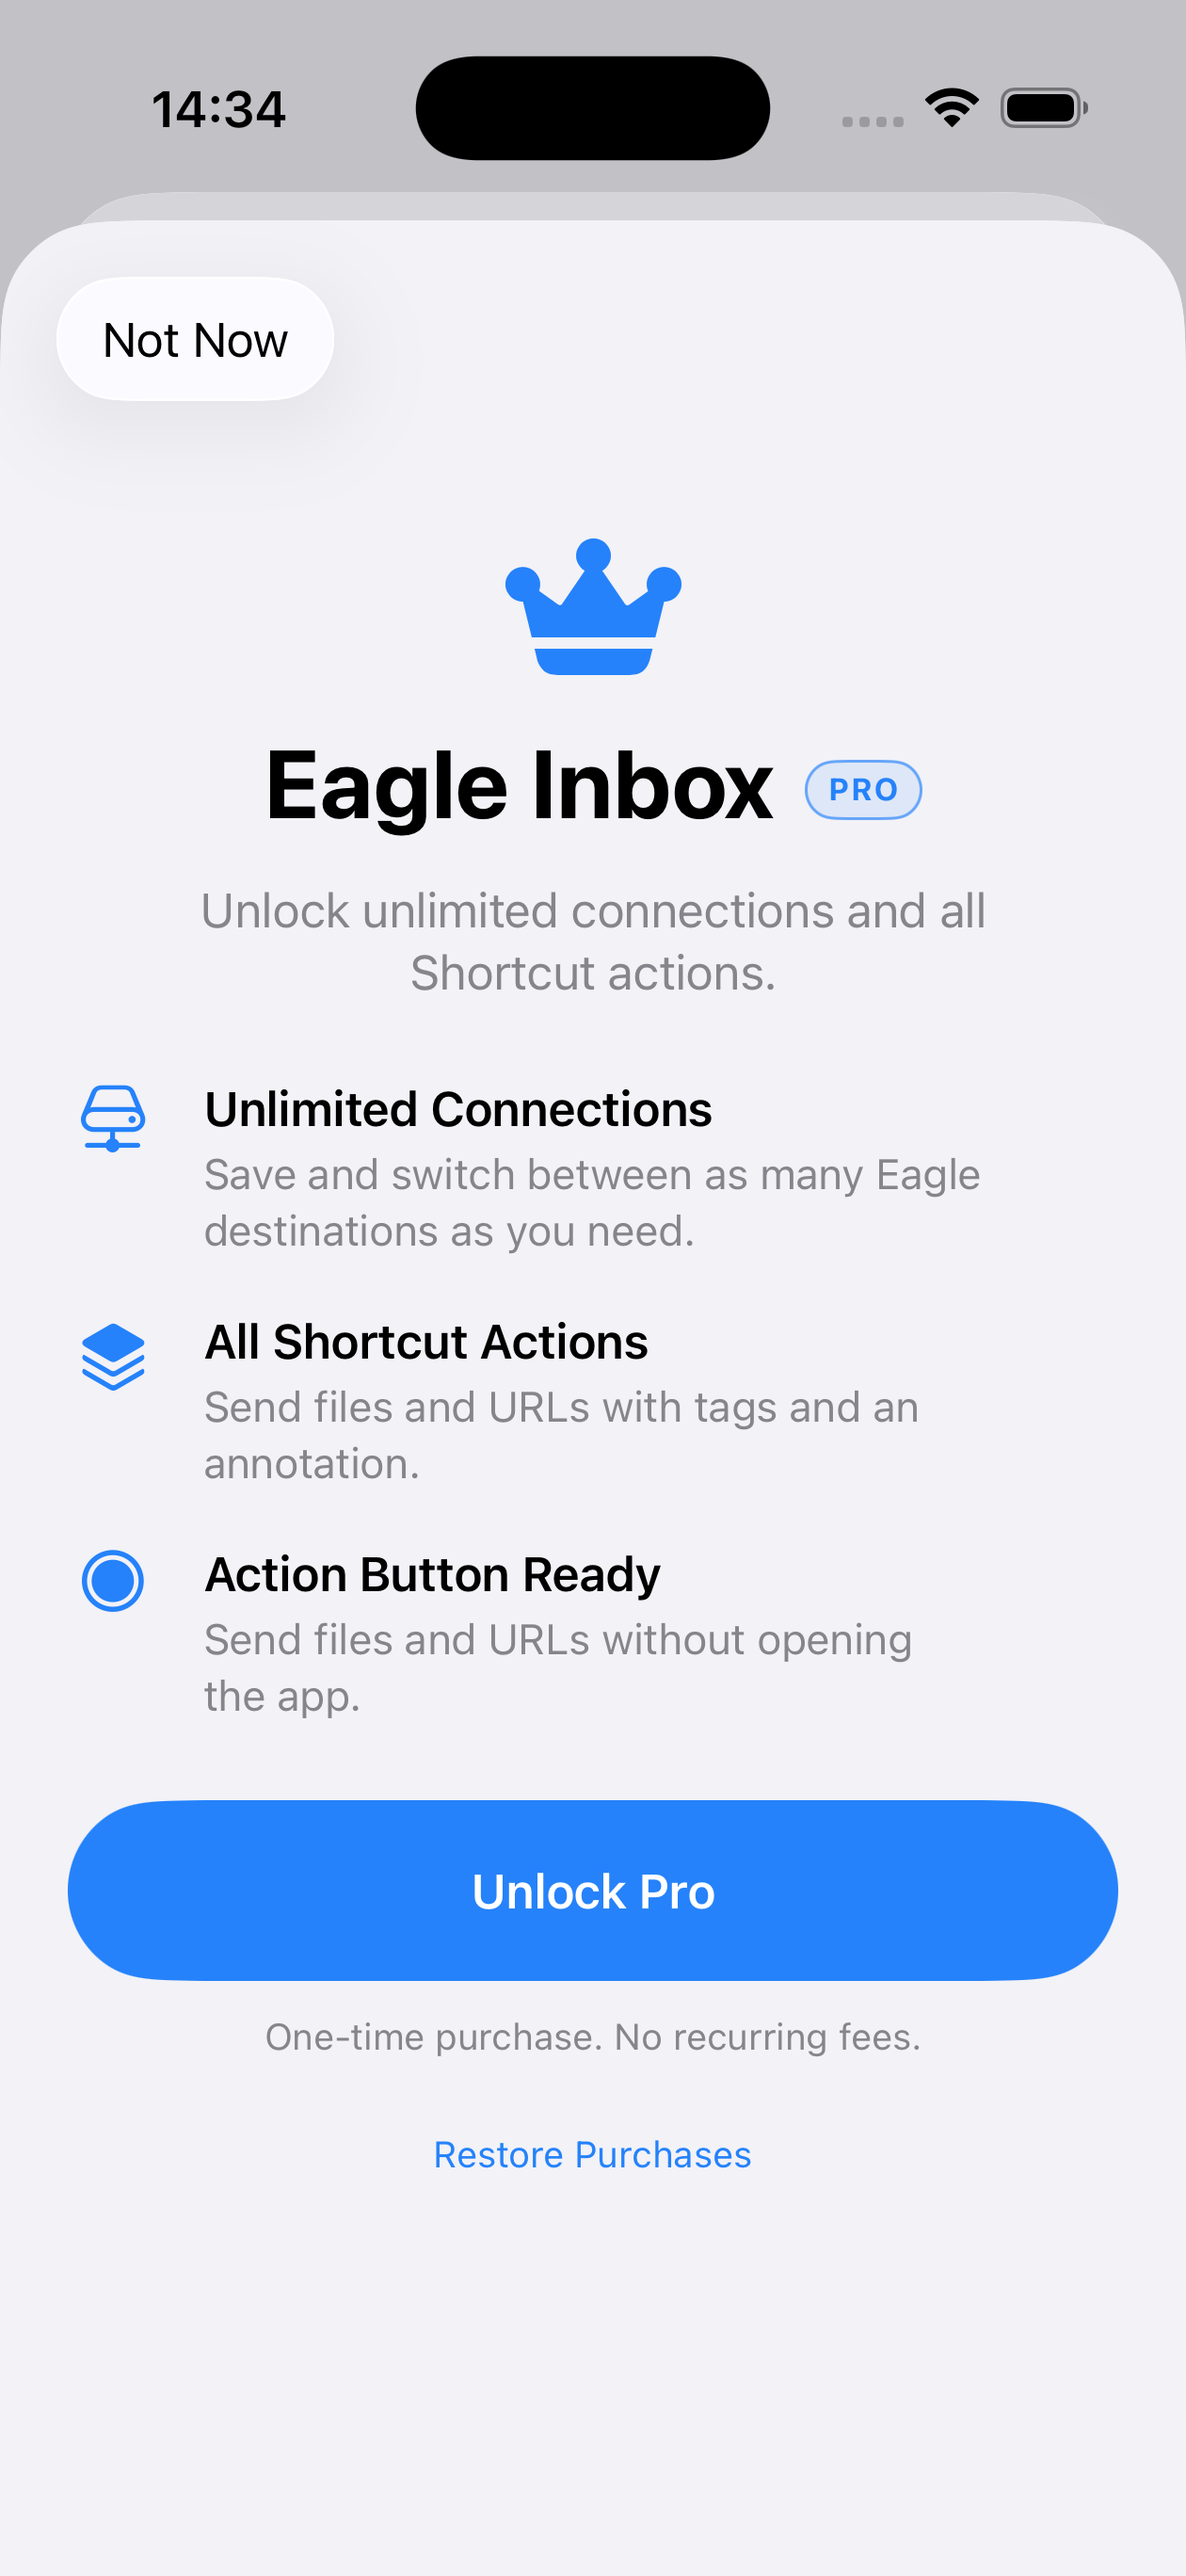
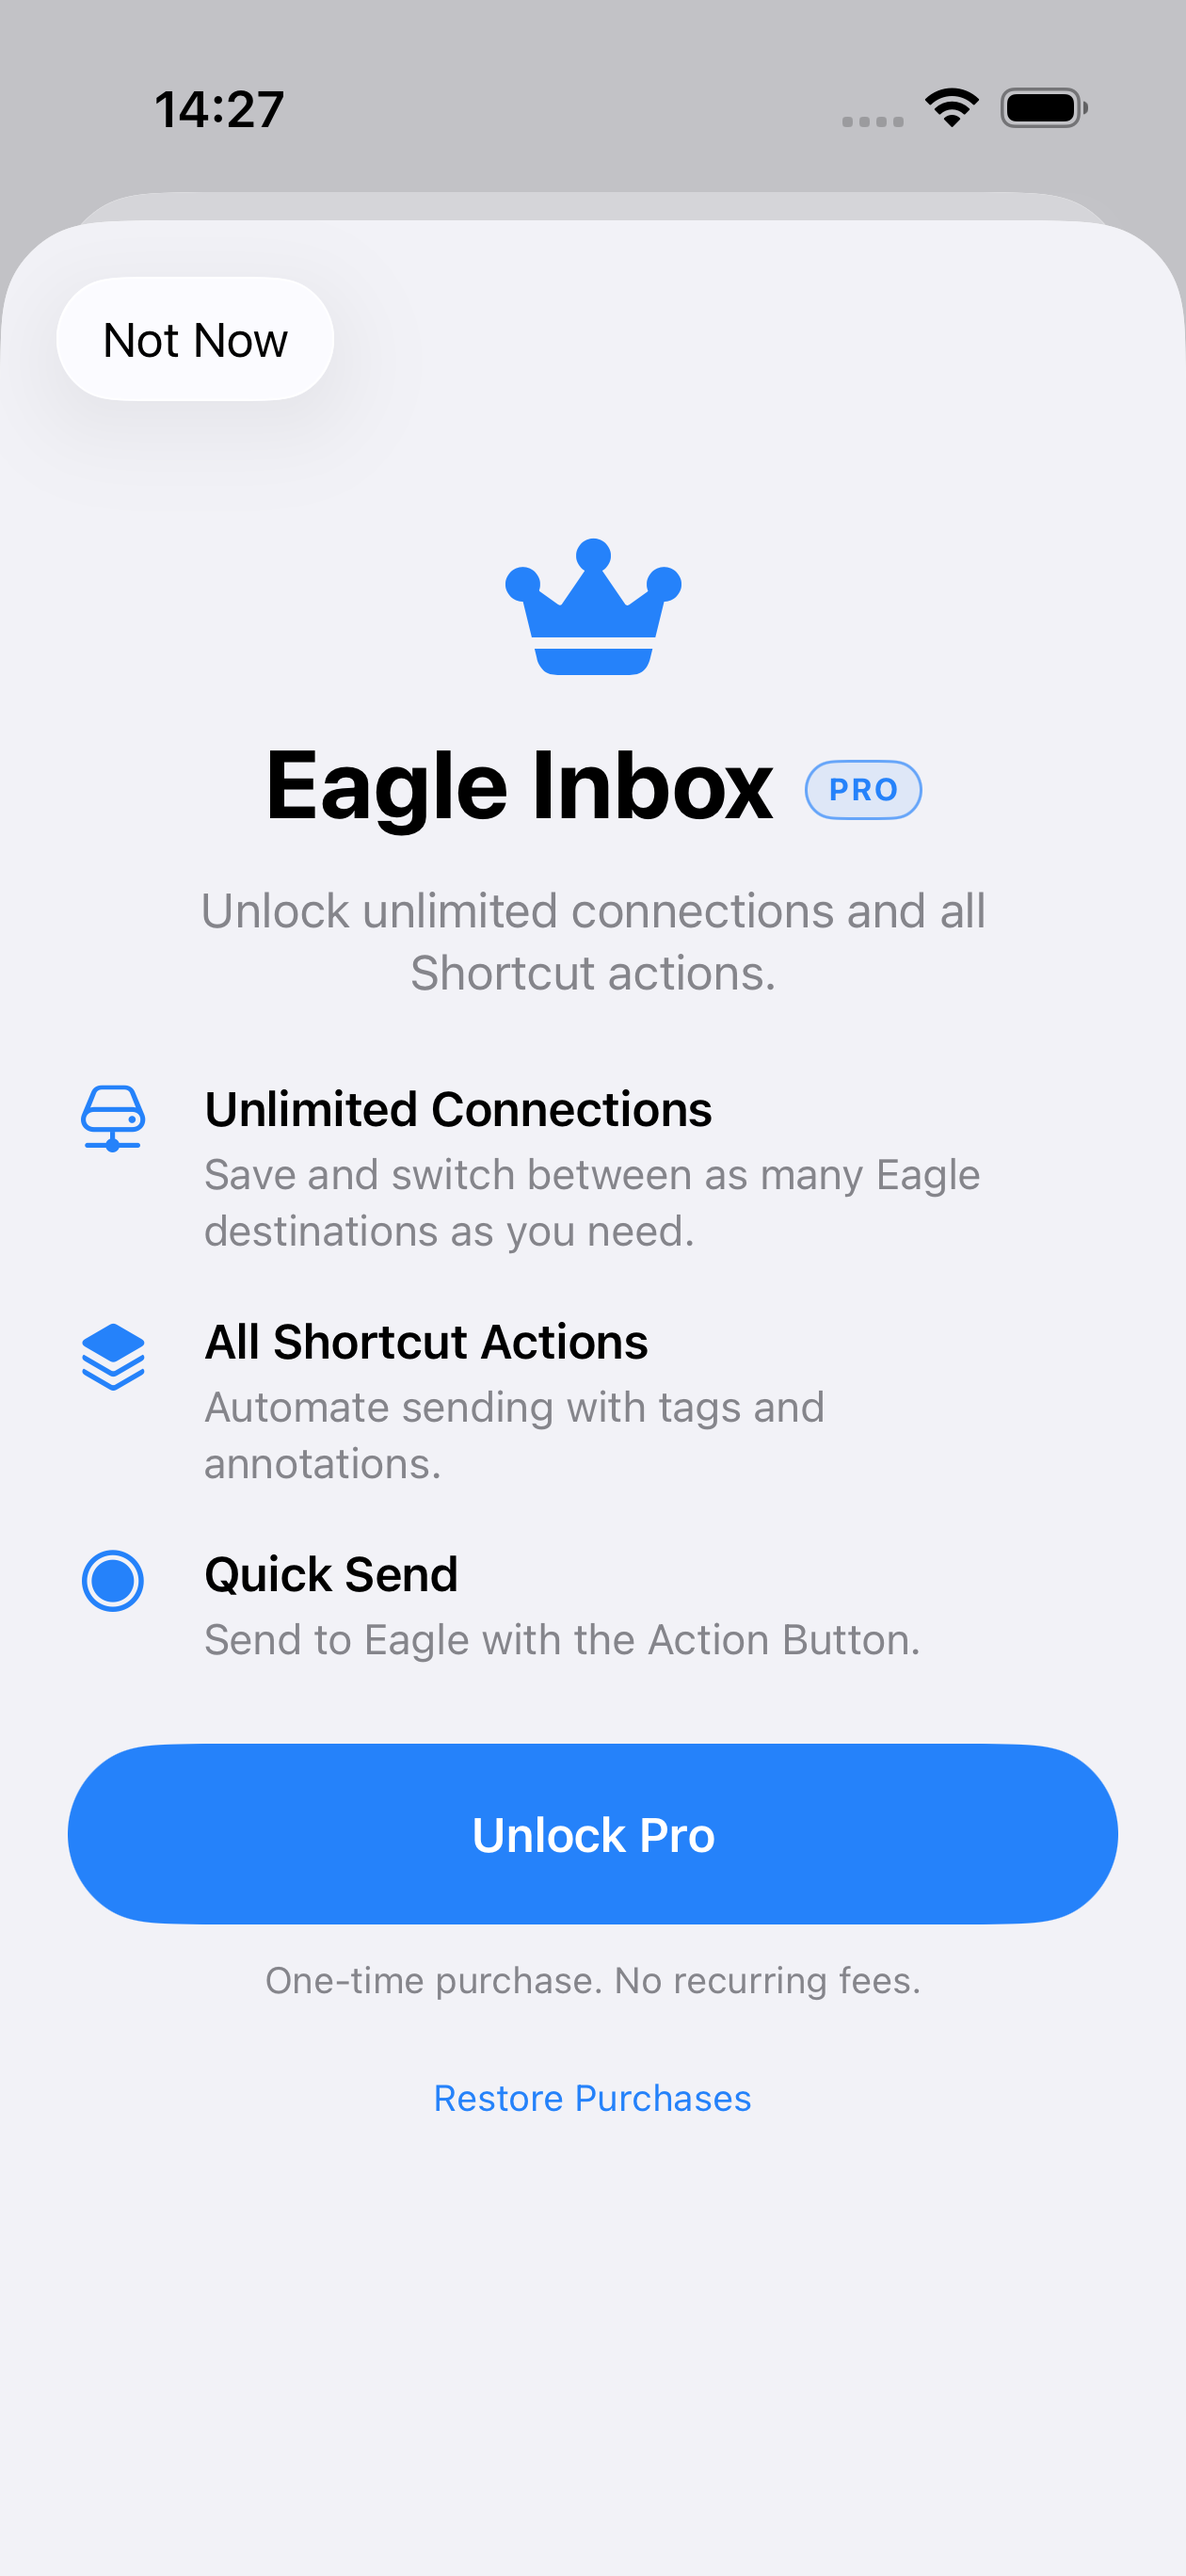
Update Pro benefits and privacy policy footer

diff --git a/privacy-policy/ja.html b/privacy-policy/ja.html
@@ -11,7 +11,7 @@
     >
     <title>プライバシーポリシー — Eagle Inbox</title>
     <link rel="icon" href="app-icon.svg" type="image/svg+xml">
-    <link rel="stylesheet" href="styles.css?v=20260816-2">
+    <link rel="stylesheet" href="styles.css?v=20260817-2">
     <script src="navigation.js?v=20260816-1" defer></script>
   </head>
   <body>
@@ -76,7 +76,7 @@
           <h1><span>プライバシー</span><wbr><span>ポリシー</span></h1>
           <p class="effective-date">
             <strong>施行日：</strong>
-            <time datetime="2026-08-13">2026年8月13日</time>
+            <time datetime="2026-08-17">2026年8月17日</time>
           </p>
           <p class="introduction">
             本プライバシーポリシーは、Eagle Inbox（以下「本アプリ」）ならびに
@@ -300,8 +300,8 @@
           <h2 id="contact-title"><span>11.</span> お問い合わせ</h2>
           <p>
             Eagle Inboxに関するご質問またはご要望は、
-            <a href="https://github.com/tuki0918/eagleinbox/issues" rel="external">GitHub Issues</a>から
-            開発者へお問い合わせください。
+            <a href="mailto:contact@bbbit.cc">contact@bbbit.cc</a>まで
+            お問い合わせください。
           </p>
           <p class="contact-note">
             APIトークン、非公開URL、個人ファイル、その他の機密情報を記載しないでください。
@@ -313,6 +313,19 @@
     <footer class="site-footer">
       <div class="footer-inner">
         <p>© 2026 bbbit. All rights reserved.</p>
+        <a
+          class="github-link"
+          href="https://github.com/tuki0918/eagleinbox"
+          target="_blank"
+          rel="noopener noreferrer"
+          aria-label="GitHubでEagle Inboxのリポジトリを開く"
+          title="GitHubリポジトリ"
+        >
+          <svg viewBox="0 0 24 24" width="22" height="22" aria-hidden="true">
+            <path d="M12 .7a11.5 11.5 0 0 0-3.64 22.41c.58.1.79-.25.79-.56v-2.23c-3.22.7-3.9-1.37-3.9-1.37-.52-1.34-1.28-1.7-1.28-1.7-1.05-.72.08-.7.08-.7 1.16.08 1.77 1.19 1.77 1.19 1.03 1.77 2.7 1.26 3.36.96.1-.75.4-1.26.74-1.55-2.57-.29-5.27-1.29-5.27-5.69 0-1.26.45-2.28 1.18-3.09-.12-.29-.51-1.47.11-3.05 0 0 .97-.31 3.16 1.18A11 11 0 0 1 12 6.11c.98 0 1.96.13 2.88.39 2.2-1.49 3.16-1.18 3.16-1.18.63 1.58.23 2.76.12 3.05.73.81 1.17 1.83 1.17 3.09 0 4.42-2.7 5.39-5.28 5.68.42.36.79 1.07.79 2.16v3.25c0 .31.21.67.8.56A11.5 11.5 0 0 0 12 .7Z"/>
+          </svg>
+          <span class="visually-hidden">GitHubリポジトリ</span>
+        </a>
       </div>
     </footer>
   </body>

diff --git a/privacy-policy/index.html b/privacy-policy/index.html
@@ -11,7 +11,7 @@
     >
     <title>Privacy Policy — Eagle Inbox</title>
     <link rel="icon" href="app-icon.svg" type="image/svg+xml">
-    <link rel="stylesheet" href="styles.css?v=20260816-2">
+    <link rel="stylesheet" href="styles.css?v=20260817-2">
     <script>
       if (new URLSearchParams(location.search).get("lang") === "ja") {
         document.documentElement.classList.add("language-loading");
@@ -82,7 +82,7 @@
           <h1><span>Privacy</span> <span>Policy</span></h1>
           <p class="effective-date">
             <strong>Effective date:</strong>
-            <time datetime="2026-08-13">August 13, 2026</time>
+            <time datetime="2026-08-17">August 17, 2026</time>
           </p>
           <p class="introduction">
             This Privacy Policy explains how Eagle Inbox (the “App”) handles
@@ -334,8 +334,8 @@
           <h2 id="contact-title"><span>11.</span> Contact</h2>
           <p>
             For questions or feature requests about Eagle Inbox, contact the
-            developer through
-            <a href="https://github.com/tuki0918/eagleinbox/issues" rel="external">GitHub Issues</a>.
+            developer at
+            <a href="mailto:contact@bbbit.cc">contact@bbbit.cc</a>.
           </p>
           <p class="contact-note">
             Do not include API tokens, private URLs, personal files, or other
@@ -348,6 +348,19 @@
     <footer class="site-footer">
       <div class="footer-inner">
         <p>© 2026 bbbit. All rights reserved.</p>
+        <a
+          class="github-link"
+          href="https://github.com/tuki0918/eagleinbox"
+          target="_blank"
+          rel="noopener noreferrer"
+          aria-label="View the Eagle Inbox repository on GitHub"
+          title="GitHub repository"
+        >
+          <svg viewBox="0 0 24 24" width="22" height="22" aria-hidden="true">
+            <path d="M12 .7a11.5 11.5 0 0 0-3.64 22.41c.58.1.79-.25.79-.56v-2.23c-3.22.7-3.9-1.37-3.9-1.37-.52-1.34-1.28-1.7-1.28-1.7-1.05-.72.08-.7.08-.7 1.16.08 1.77 1.19 1.77 1.19 1.03 1.77 2.7 1.26 3.36.96.1-.75.4-1.26.74-1.55-2.57-.29-5.27-1.29-5.27-5.69 0-1.26.45-2.28 1.18-3.09-.12-.29-.51-1.47.11-3.05 0 0 .97-.31 3.16 1.18A11 11 0 0 1 12 6.11c.98 0 1.96.13 2.88.39 2.2-1.49 3.16-1.18 3.16-1.18.63 1.58.23 2.76.12 3.05.73.81 1.17 1.83 1.17 3.09 0 4.42-2.7 5.39-5.28 5.68.42.36.79 1.07.79 2.16v3.25c0 .31.21.67.8.56A11.5 11.5 0 0 0 12 .7Z"/>
+          </svg>
+          <span class="visually-hidden">GitHub repository</span>
+        </a>
       </div>
     </footer>
   </body>

diff --git a/EagleInboxUITests/ConnectionsNavigationUITests.swift b/EagleInboxUITests/ConnectionsNavigationUITests.swift
@@ -88,12 +88,12 @@ final class ConnectionsNavigationUITests: XCTestCase {
         XCTAssertTrue(app.staticTexts["All Shortcut Actions"].exists)
         XCTAssertTrue(
             app.staticTexts[
-                "Send files and URLs with tags and an annotation."
+                "Automate sending with tags and annotations."
             ].exists
         )
         XCTAssertTrue(
             app.staticTexts[
-                "Send files and URLs without opening the app."
+                "Send to Eagle with the Action Button."
             ].exists
         )
         XCTAssertTrue(app.buttons["pro.purchase"].exists)
@@ -120,6 +120,7 @@ final class ConnectionsNavigationUITests: XCTestCase {
         )
         XCTAssertEqual(app.buttons["pro.purchase"].label, "Unlock Pro")
         XCTAssertTrue(app.buttons["pro.purchase"].isEnabled)
+        attachScreenshot(named: "pro-upgrade")
     }
 
     func testJapaneseProUpgradeLocalization() {
@@ -140,8 +141,9 @@ final class ConnectionsNavigationUITests: XCTestCase {
             "接続先を無制限に追加し、すべてのショートカット機能を利用できます。",
             "Eagleの接続先をいくつでも登録・切り替えできます。",
             "ショートカット機能",
-            "タグや注釈を付け、ファイルやURLを送信できます。",
-            "アプリを開かず、ファイルやURLを送信できます。",
+            "タグや注釈を指定して、送信を自動化できます。",
+            "クイック送信",
+            "アクションボタンからEagleへ送信できます。",
             "買い切りで、継続料金はかかりません。"
         ] {
             XCTAssertTrue(

diff --git a/EagleInbox/ProUpgradeView.swift b/EagleInbox/ProUpgradeView.swift
@@ -42,12 +42,12 @@ struct ProUpgradeView: View {
                         benefit(
                             systemImage: "square.stack.3d.up.fill",
                             title: "All Shortcut Actions",
-                            description: "Send files and URLs with tags and an annotation."
+                            description: "Automate sending with tags and annotations."
                         )
                         benefit(
                             systemImage: "button.programmable",
-                            title: "Action Button Ready",
-                            description: "Send files and URLs without opening the app."
+                            title: "Quick Send",
+                            description: "Send to Eagle with the Action Button."
                         )
                     }
                     .frame(maxWidth: 520)

diff --git a/privacy-policy/styles.css b/privacy-policy/styles.css
@@ -482,6 +482,7 @@ li + li {
 }
 
 .footer-inner {
+  align-items: center;
   justify-content: space-between;
   gap: 32px;
   padding-top: 24px;
@@ -490,6 +491,30 @@ li + li {
 
 .footer-inner p {
   margin: 0;
+}
+
+.github-link {
+  display: inline-flex;
+  flex: 0 0 auto;
+  align-items: center;
+  justify-content: center;
+  width: 38px;
+  height: 38px;
+  color: var(--paper);
+  cursor: pointer;
+}
+
+.github-link svg {
+  fill: currentColor;
+}
+
+.github-link:hover {
+  color: var(--paper);
+}
+
+.github-link:focus-visible {
+  outline: 3px solid var(--accent);
+  outline-offset: 3px;
 }
 
 @media (max-width: 900px) {
@@ -674,11 +699,7 @@ li + li {
   }
 
   .footer-inner {
-    display: block;
-  }
-
-  .footer-inner p + p {
-    margin-top: 4px;
+    gap: 20px;
   }
 }
 
